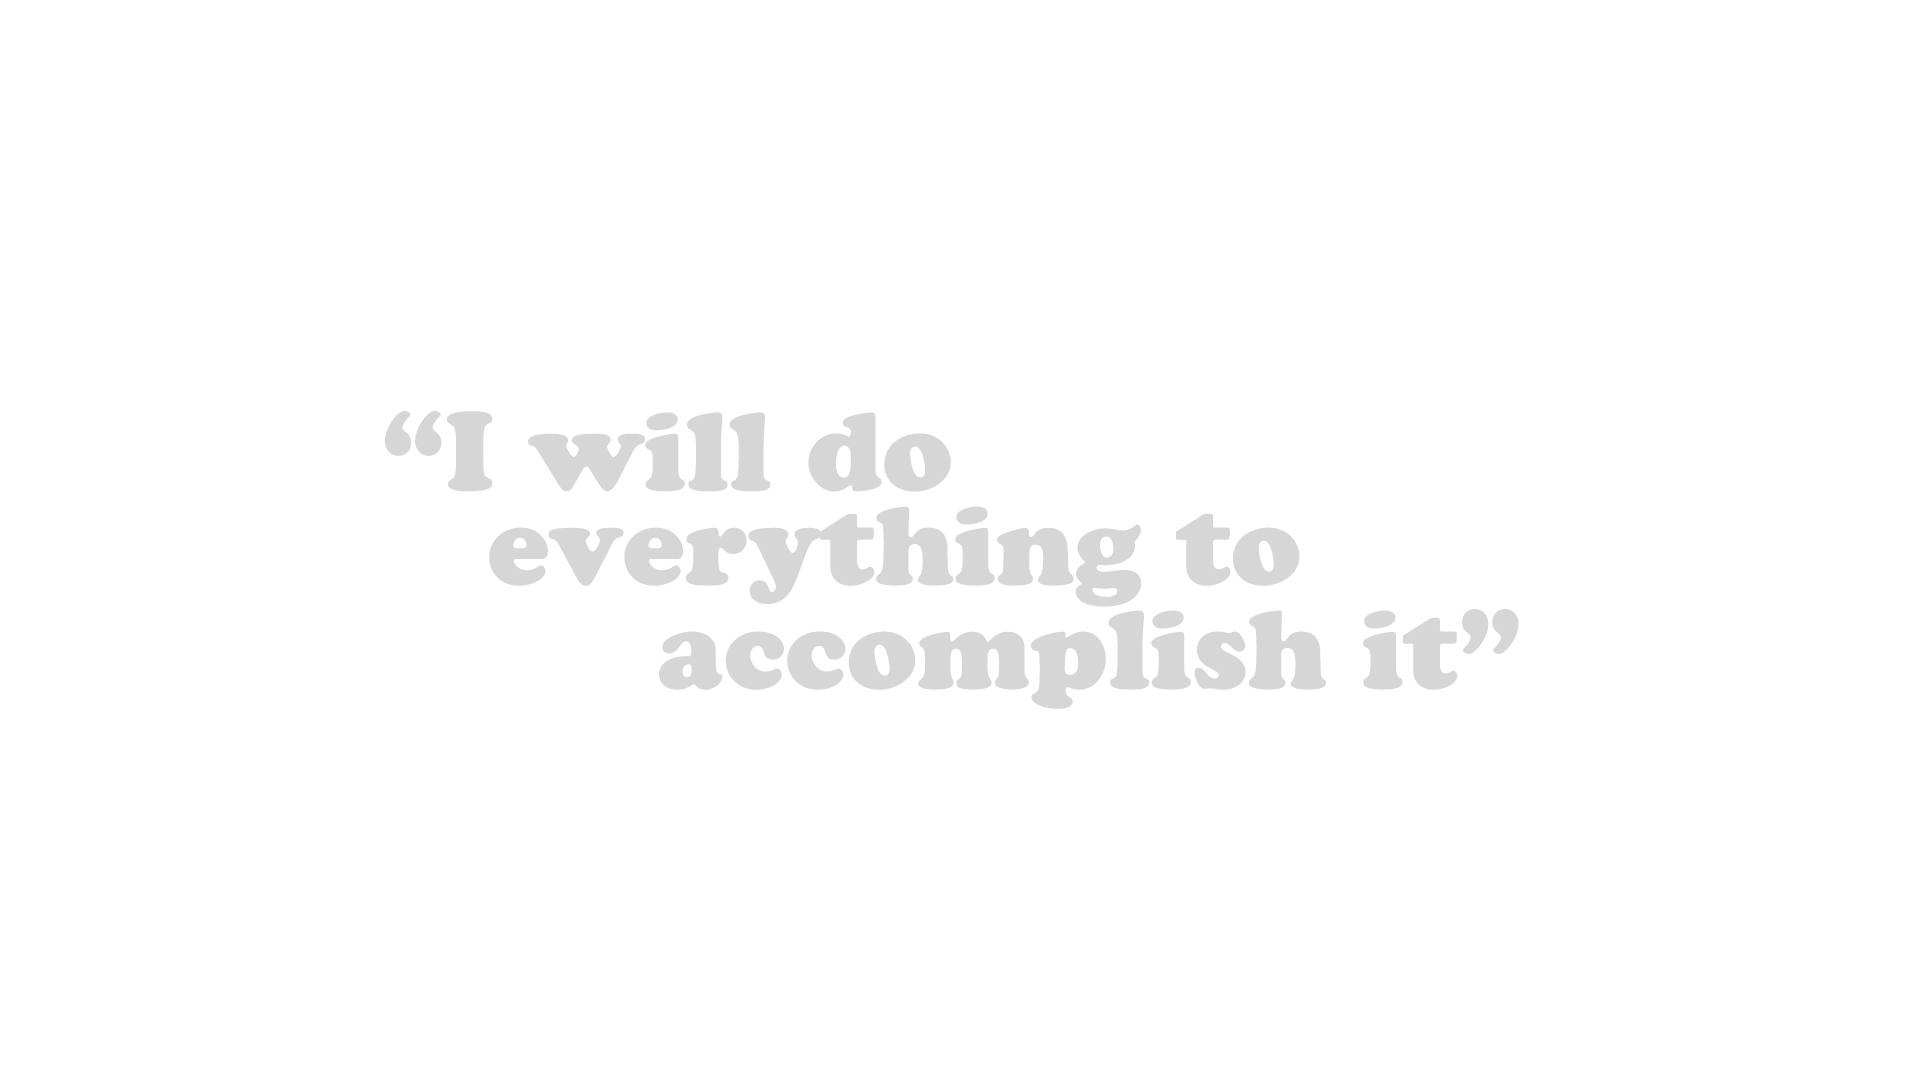
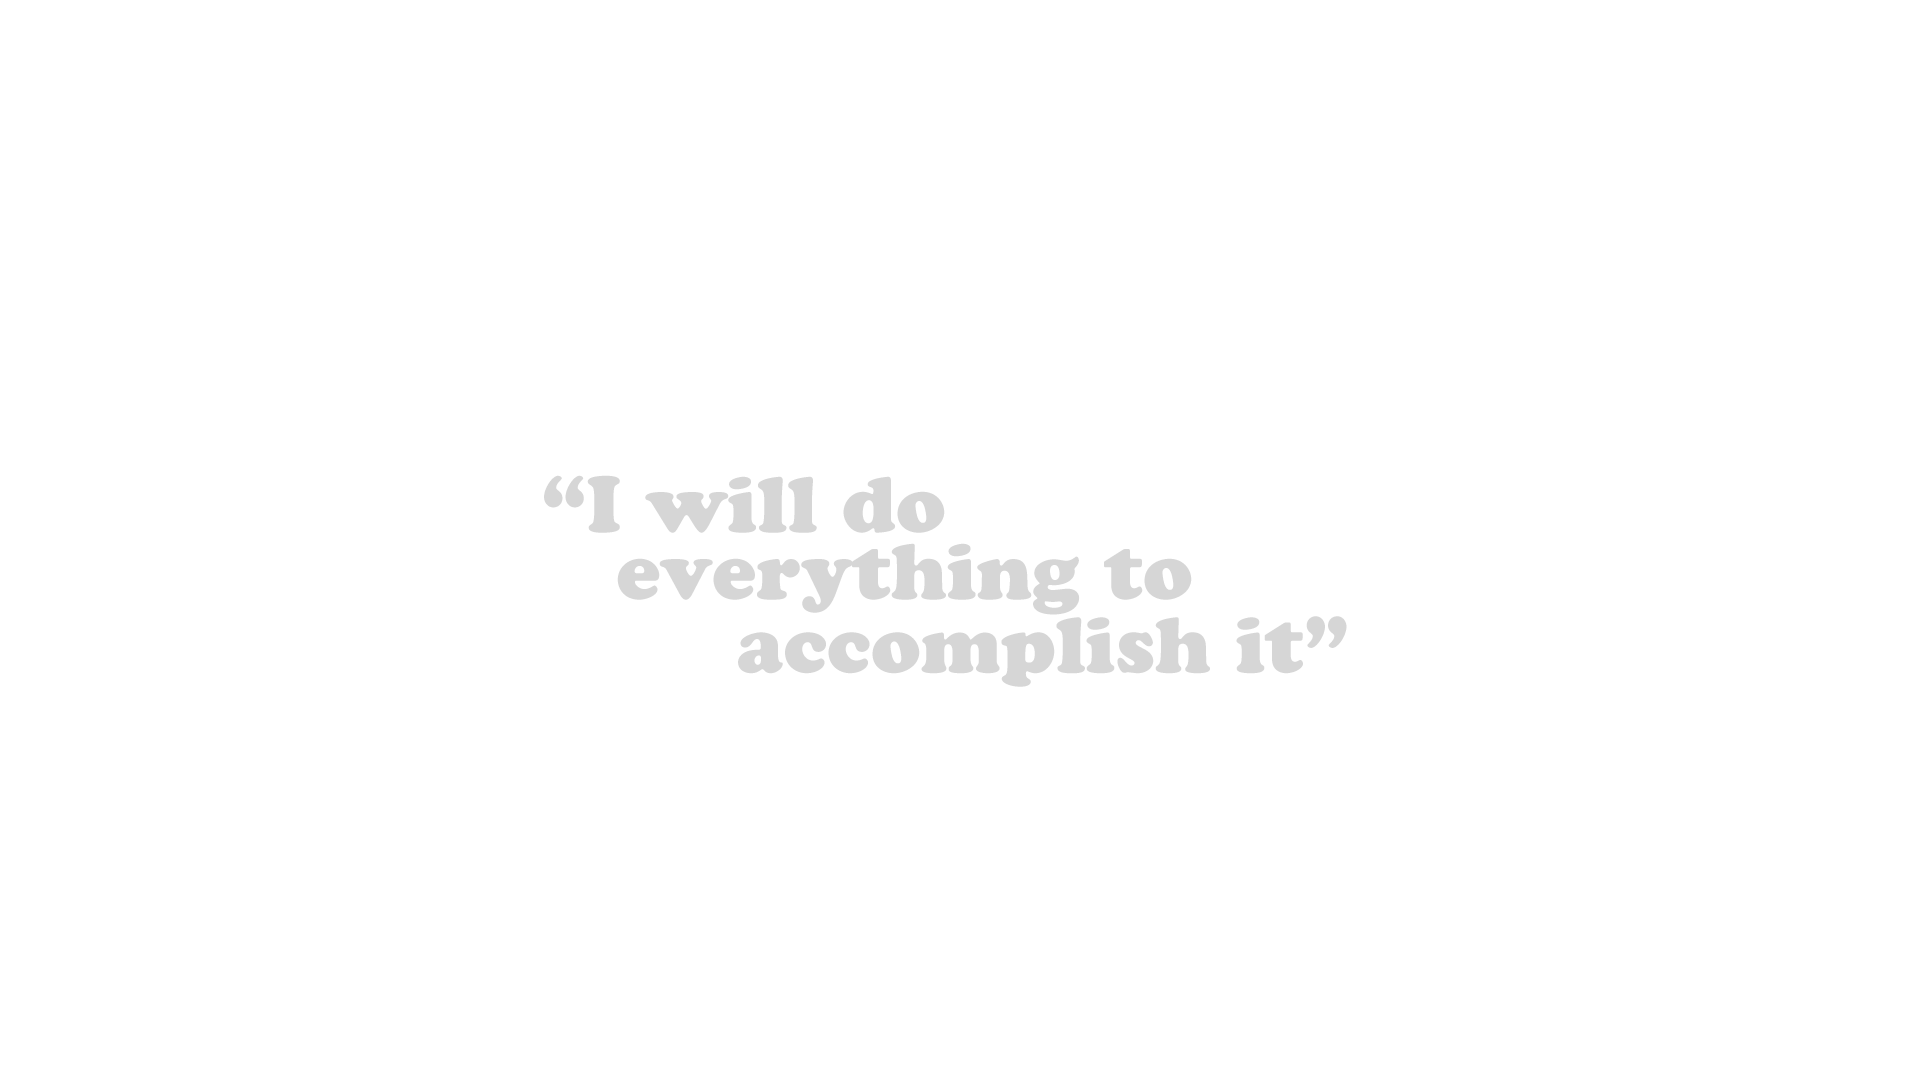
update parallax

Changed region(s): [[0.1875, 0.3667, 0.8125, 0.6722]]

diff --git a/index.html b/index.html
@@ -202,7 +202,7 @@
 						</div>
 					</div>
 					<div id="skill-line"></div>
-					<div class="parallax"><img src="img/parallax.png" alt="Unsplashed background img 2"></div>
+					<div class="parallax"><img src="img/parallax3.png" alt="Unsplashed background img 2"></div>
 				</div>
 				
 				<!-- SKILLS -->
